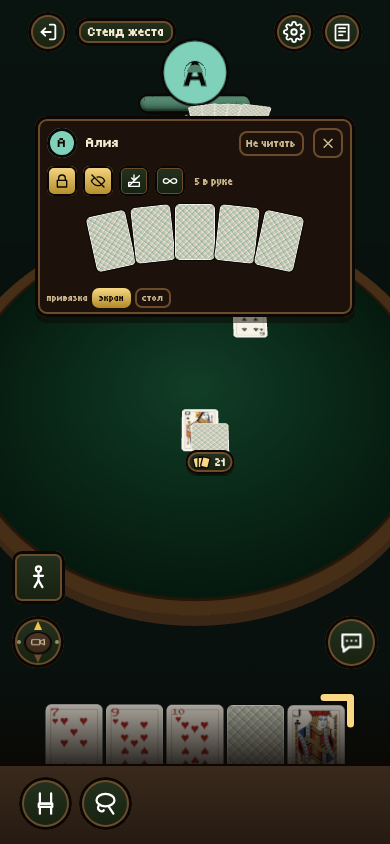
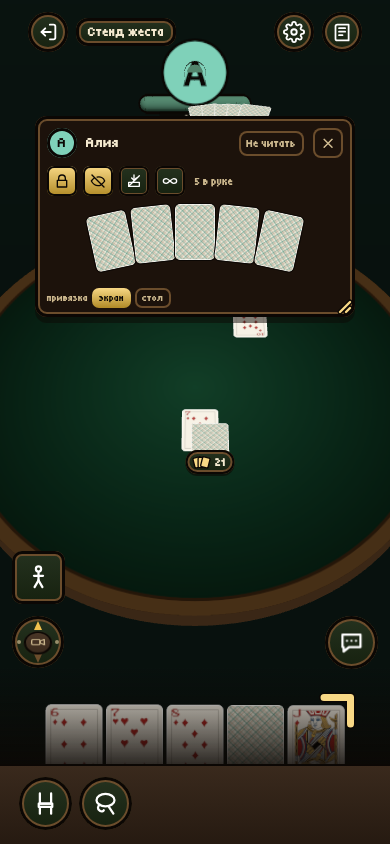
Песочница 3D, панель HUD: язычок масштаба в правом нижнем углу (тянешь от середины окна — крупнее, к ней — мельче; 0.25…3), масштаб у каждого окна свой и отдельно на экране и на столе, помнит устройство; на столе по умолчанию 0.7 (было — во всю ширину полстола). Попутно: при переходе с экрана на сто

diff --git a/table3d/src/panel.ts b/table3d/src/panel.ts
@@ -7,7 +7,9 @@
 //   наклон    (у привязанного к столу) лицом к камере — всегда к тебе; лежит — в плоскости сукна, верхом от тебя;
 //             стоит — вертикально над своим местом, лицом к твоему стулу;
 //   место     двигается всегда — за заголовок (`data-panel-drag`): у экранного — по экрану, у столового — по столу;
-//             открылось первый раз — у своей вещи, дальше — где его оставили (у каждого окна своё место).
+//             открылось первый раз — у своей вещи, дальше — где его оставили (у каждого окна своё место);
+//   масштаб   язычок в правом нижнем углу: тянешь от середины окна — крупнее, к ней — мельче; у каждого окна свой,
+//             отдельно на экране и на столе (на столе по умолчанию меньше: там окно — вещь среди карт).
 //
 // Содержимое рисуется в точках панели (0, 0 — левый верх); перевод из экрана в точки панели — `local` (у столового —
 // лучом в его плоскость). Внизу каждой панели — строка стенда: привязка и наклон кнопками.
@@ -16,7 +18,7 @@ export type Anchor = "screen" | "table";
 export type Tilt = "camera" | "flat" | "stand";
 export interface PanelConf { anchor: Anchor; tilt: Tilt }
 /** Панель на столе: где (x, y — сукно), наклон и размер в точках. */
-export interface WorldPlace { x: number; y: number; tilt: Tilt; w: number; h: number }
+export interface WorldPlace { x: number; y: number; tilt: Tilt; w: number; h: number; scale: number }
 /** Что панели нужно от сцены. */
 export interface PanelWorld {
   /** Поставить элемент на стол (слой CSS3D) или снять оттуда (`null`). */
@@ -29,6 +31,9 @@ export interface PanelWorld {
 }
 
 const CONF_ROW = 34;
+/** Масштаб по умолчанию: на экране — как нарисовано, на столе — вдвое меньше. Пределы язычка. */
+const SCALE = { screen: 1, table: 0.7, min: 0.25, max: 3 } as const;
+const TONGUE = 22;
 const ANCHOR_WORDS: Record<Anchor, string> = { screen: "экран", table: "стол" };
 const TILT_WORDS: Record<Tilt, string> = { camera: "лицом", flat: "лежит", stand: "стоит" };
 
@@ -54,7 +59,8 @@ export interface Panels {
 
 export function mountPanels(overlay: HTMLElement, world: PanelWorld, redraw: () => void): Panels {
   const confs: Record<string, PanelConf> = read("table3d.panelConf", {});
-  const ats: Record<string, { screen?: { left: number; top: number }; world?: { x: number; y: number } }> = read("table3d.panelAt", {});
+  const ats: Record<string, { screen?: { left: number; top: number }; world?: { x: number; y: number }; scale?: Partial<Record<Anchor, number>> }> = read("table3d.panelAt", {});
+  const scaleOf = (key: string, anchor: Anchor) => ats[key]?.scale?.[anchor] ?? SCALE[anchor];
   const open = new Map<string, { el: HTMLElement; kind: string; w: number; h: number; html: string; on3d: boolean }>();
   const conf = (kind: string): PanelConf => ({ anchor: confs[kind]?.anchor === "table" ? "table" : "screen", tilt: (["camera", "flat", "stand"] as Tilt[]).includes(confs[kind]?.tilt as Tilt) ? confs[kind]!.tilt : "camera" });
   const save = () => { write("table3d.panelConf", confs); write("table3d.panelAt", ats); };
@@ -78,7 +84,10 @@ export function mountPanels(overlay: HTMLElement, world: PanelWorld, redraw: () 
       open.set(key, one);
     }
     const c = conf(kind), H = h + CONF_ROW;
-    const full = html + confRow(kind);
+    // Язычок масштаба — уголок в правом нижнем углу.
+    const tongue = `<div data-panel-scale title="Масштаб окна: тяни от середины — крупнее, к ней — мельче" style="position:absolute;right:0;bottom:0;width:${TONGUE}px;height:${TONGUE}px;touch-action:none;cursor:nwse-resize;z-index:95">`
+      + `<svg width="${TONGUE}" height="${TONGUE}" style="position:absolute;inset:0;pointer-events:none"><path d="M${TONGUE - 5} 7 L7 ${TONGUE - 5} M${TONGUE - 5} 13 L13 ${TONGUE - 5}" stroke="#0b0704" stroke-width="5" stroke-linecap="round"/><path d="M${TONGUE - 5} 7 L7 ${TONGUE - 5} M${TONGUE - 5} 13 L13 ${TONGUE - 5}" stroke="#f8d885" stroke-width="2.4" stroke-linecap="round"/></svg></div>`;
+    const full = html + confRow(kind) + tongue;
     if (one.html !== full) { one.html = full; one.el.innerHTML = full; }
     one.w = w; one.h = H;
     Object.assign(one.el.style, { width: `${w}px`, height: `${H}px`, boxSizing: "border-box", pointerEvents: "auto" });
@@ -90,12 +99,12 @@ export function mountPanels(overlay: HTMLElement, world: PanelWorld, redraw: () 
       if (one.el.parentNode !== overlay) overlay.append(one.el);
       const g = world.glass();
       at.screen ??= { left: Math.round(Math.max(12, Math.min(g.w - w - 12, near.screen.x - w / 2))), top: Math.round(Math.max(56, Math.min(g.h - H - 8, near.screen.y + 36))) };
-      Object.assign(one.el.style, { position: "absolute", left: `${at.screen.left}px`, top: `${at.screen.top}px`, transform: "" });
+      Object.assign(one.el.style, { position: "absolute", left: `${at.screen.left}px`, top: `${at.screen.top}px`, transform: `scale(${scaleOf(key, "screen")})`, transformOrigin: "0 0" });
     } else {
       at.world ??= { x: near.world.x, y: near.world.y };
       // Экранное место на столе ни при чём: сцена ставит элемент сама, от его середины.
-      Object.assign(one.el.style, { left: "", top: "" });
-      world.place3d(one.el, { x: at.world.x, y: at.world.y, tilt: c.tilt, w, h: H });
+      Object.assign(one.el.style, { left: "", top: "", transformOrigin: "" });
+      world.place3d(one.el, { x: at.world.x, y: at.world.y, tilt: c.tilt, w, h: H, scale: scaleOf(key, "table") });
       one.on3d = true;
     }
   }
@@ -112,12 +121,13 @@ export function mountPanels(overlay: HTMLElement, world: PanelWorld, redraw: () 
     if (!one) return null;
     let p: { x: number; y: number } | null;
     if (one.on3d) p = world.local3d(one.el, x, y);
-    else { const r = one.el.getBoundingClientRect(); p = { x: x - r.left, y: y - r.top }; }
+    else { const r = one.el.getBoundingClientRect(), k = scaleOf(key, "screen"); p = { x: (x - r.left) / k, y: (y - r.top) / k }; }
     return p && p.x >= 0 && p.y >= 0 && p.x <= one.w && p.y <= one.h ? p : null;
   }
 
   /** Двигать за заголовок: экранную — по экрану, столовую — по сукну. */
   function press(e: PointerEvent): boolean {
+    if (scalePress(e)) return true;
     const t = e.target as HTMLElement, handle = t.closest<HTMLElement>("[data-panel-drag]"), el = t.closest<HTMLElement>("[data-panel]");
     if (!handle || !el) return false;
     const key = el.dataset.panel!, one = open.get(key);
@@ -129,6 +139,28 @@ export function mountPanels(overlay: HTMLElement, world: PanelWorld, redraw: () 
       if (ev.pointerId !== e.pointerId) return;
       if (c.anchor === "screen") at.screen = { left: Math.round((from as { left: number }).left + ev.clientX - e.clientX), top: Math.round((from as { top: number }).top + ev.clientY - e.clientY) };
       else { const now = world.feltAt(ev.clientX, ev.clientY); if (now && grab) at.world = { x: (from as { x: number }).x + now.x - grab.x, y: (from as { y: number }).y + now.y - grab.y }; }
+      redraw();
+    };
+    const up = (ev: PointerEvent) => { if (ev.pointerId !== e.pointerId) return; removeEventListener("pointermove", move); removeEventListener("pointerup", up); removeEventListener("pointercancel", up); save(); redraw(); };
+    addEventListener("pointermove", move);
+    addEventListener("pointerup", up);
+    addEventListener("pointercancel", up);
+    return true;
+  }
+  /** Язычок: масштаб — во сколько раз палец дальше от середины окна на экране, чем был в начале. */
+  function scalePress(e: PointerEvent): boolean {
+    const t = e.target as HTMLElement, el = t.closest<HTMLElement>("[data-panel]");
+    if (!t.closest("[data-panel-scale]") || !el) return false;
+    const key = el.dataset.panel!, one = open.get(key);
+    if (!one) return false;
+    e.preventDefault();
+    const anchor = conf(one.kind).anchor, r = el.getBoundingClientRect(), mid = { x: r.left + r.width / 2, y: r.top + r.height / 2 };
+    const d0 = Math.max(20, Math.hypot(e.clientX - mid.x, e.clientY - mid.y)), s0 = scaleOf(key, anchor);
+    const at = (ats[key] ??= {});
+    const move = (ev: PointerEvent) => {
+      if (ev.pointerId !== e.pointerId) return;
+      const k = Math.max(SCALE.min, Math.min(SCALE.max, (s0 * Math.hypot(ev.clientX - mid.x, ev.clientY - mid.y)) / d0));
+      at.scale = { ...at.scale, [anchor]: Math.round(k * 100) / 100 };
       redraw();
     };
     const up = (ev: PointerEvent) => { if (ev.pointerId !== e.pointerId) return; removeEventListener("pointermove", move); removeEventListener("pointerup", up); removeEventListener("pointercancel", up); save(); redraw(); };

diff --git a/table3d/src/scene.ts b/table3d/src/scene.ts
@@ -854,8 +854,8 @@ export function mountScene(host: HTMLElement, store: TableStore): SceneApi {
         if (!at) { if (one) { cssScene.remove(one.obj); panel3d.delete(el); } draw(); return; }
         if (!one) { one = { obj: new CSS3DObject(el), at }; panel3d.set(el, one); cssScene.add(one.obj); }
         one.at = at;
-        const o = one.obj, a = (myChair()?.angle ?? 0) * DEG, hu = at.h / PANEL_PX;
-        o.scale.setScalar(1 / PANEL_PX);
+        const o = one.obj, a = (myChair()?.angle ?? 0) * DEG, hu = (at.h * at.scale) / PANEL_PX;
+        o.scale.setScalar(at.scale / PANEL_PX);
         if (at.tilt === "flat") { o.position.set(at.x, 0.05, at.y); o.rotation.set(-Math.PI / 2, a, 0, "YXZ"); }
         else if (at.tilt === "stand") { o.position.set(at.x, hu / 2 + 0.02, at.y); o.rotation.set(0, a, 0, "YXZ"); }
         else { o.position.set(at.x, hu / 2 + 0.6, at.y); o.quaternion.copy(camera.quaternion); }
